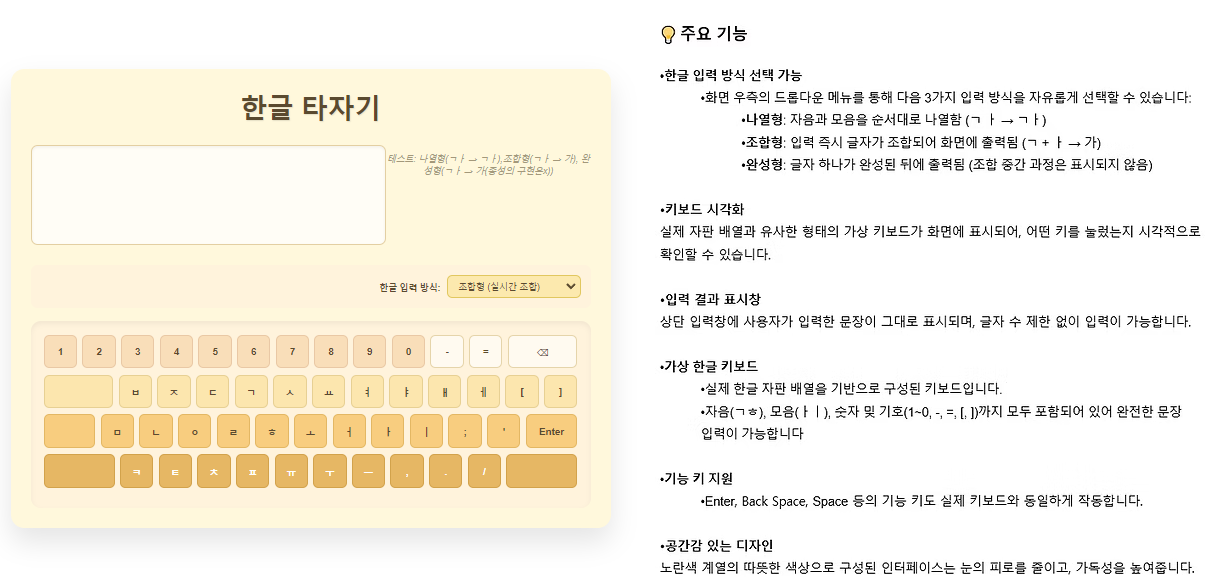
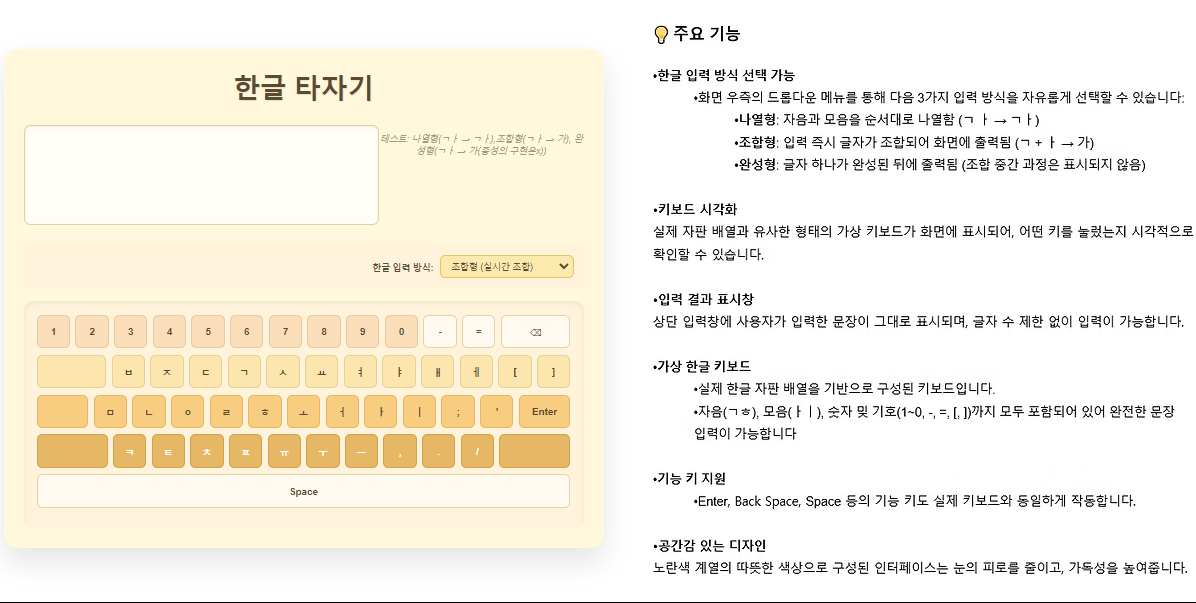
수정사항 반영

diff --git a/eng_typing.html b/eng_typing.html
@@ -237,6 +237,7 @@ body {
     transform: scale(0.95);
 }
 
+
 /* 기존 .key 스타일 유지, 여기에 hover 추가 */
 .key:hover,
 .key.active {
@@ -425,10 +426,10 @@ window.addEventListener('keyup', (e) => {
 
 // ✅ 마우스로 클릭할 때도 동일하게 처리
 keys.forEach(key => {
-    key.addEventListener('click', () => {
-        animateKey(key); // 눌림 효과
+  key.addEventListener('click', () => {
+    const val = key.dataset.key;
 
-        const val = key.dataset.key;
+
         if (!val) {
             const keyText = key.textContent.trim().toLowerCase();
 
@@ -448,8 +449,9 @@ keys.forEach(key => {
             return;
         }
 
-        handleKeyPress(val, key);
-    });
+    animateKey(key);
+    handleKeyPress(val, key);
+  });
 });
 </script>
 

diff --git a/kor_typing.html b/kor_typing.html
@@ -397,6 +397,12 @@
         <div class="key letter-key" data-key="/">/</div>
     <div class="key letter-key wide" style="flex: 2"></div>
     </div>
+      <!-- 하단줄 -->
+  <div class="row">
+    <div class="key letter-key wide" style="flex: 4" data-key=" ">Space</div>
+  </div>
+</div>
+
 
 <script>
     const koreanMap = {
